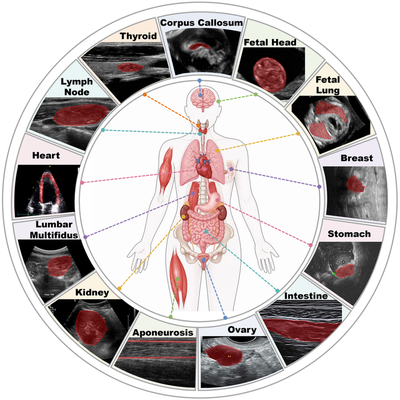
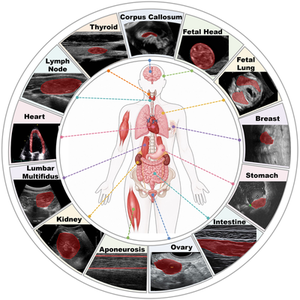
docs: resize overview figure to 300x300

diff --git a/README.md b/README.md
@@ -26,7 +26,7 @@ This repository provides the official implementation of MEMO-USeg.
 - **Prompt-free deployment.** No manual bounding box or point prompts are required.
 
 <p align="center">
-  <img src="assets/organs.png" alt="MEMO-USeg covers 13 ultrasound organs" width="400">
+  <img src="assets/organs.png" alt="MEMO-USeg covers 13 ultrasound organs" width="300">
 </p>
 
 <p align="center"><i>Examples from the 13 ultrasound organs covered by MEMO-USeg.</i></p>
